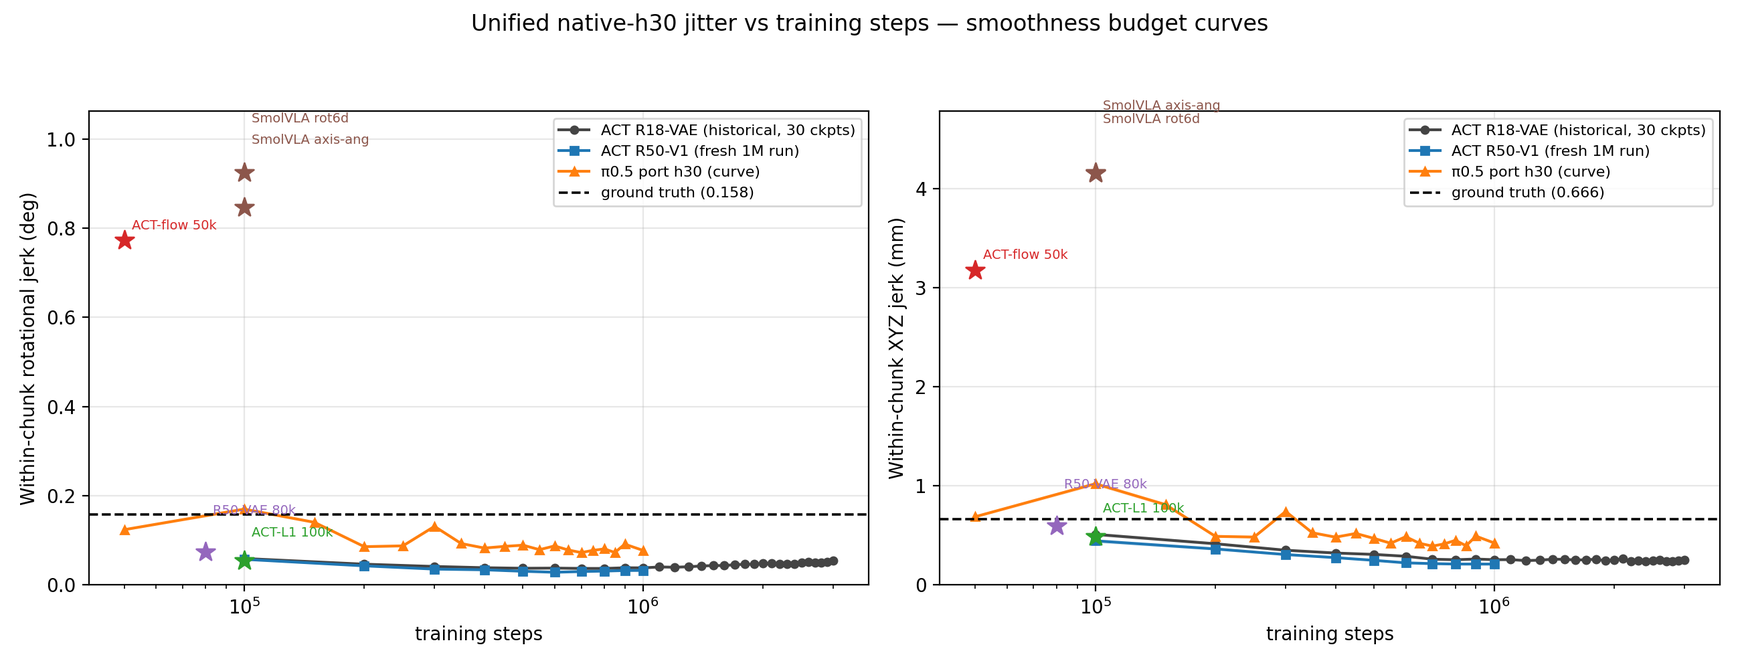
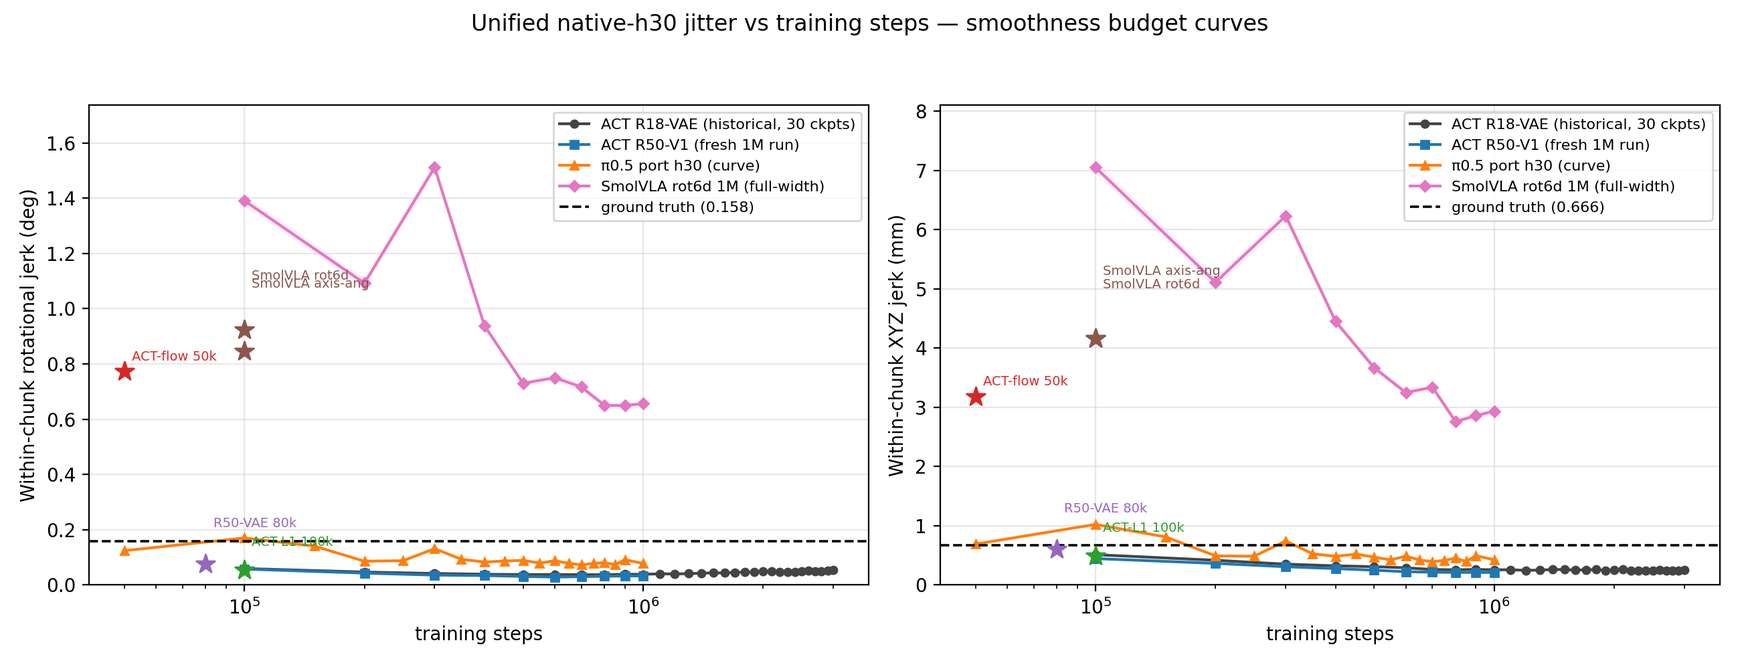
§9.2.10 created: SmolVLA rot6d 1M full-width curve (60/60 evals); §9.2.9 81/81, §9.2.11 77/87
- §9.2.10: padding-mode A/B section — Option A (full-width) complete:
  h10 10.51→9.06 mm (ties port@1M, passes R50-V1), h30 28.50→26.26 mm
  (still worst family — far-horizon deficit survives 10x budget), jerk
  halves (1.04→0.43° h10 / 1.39→0.66° h30); replication check:
  fresh-100k ≠ notation-100k (schedule-position effect, disjoint t+10 CIs);
  budget improves BOTH horizons (no ACT-style flip); Option B (masked) ETA
  Aug 20.
- §9.2.9: 10 new rows + read-out 7 (SmolVLA tops h10 pack only at full
  budget, ~7x port's sample efficiency).
- §9.2.11: 10 new h30 rows + read-out 7 + smol1m curve in figures.
- plot_unified_h10.py: 4th budget curve (regex-gated 7-digit names to
  exclude the notation-100k run); jitter scope fix.

diff --git a/examples/umi_relative_ee/act_flow_ablation/plot_unified_h10.py b/examples/umi_relative_ee/act_flow_ablation/plot_unified_h10.py
@@ -27,6 +27,7 @@ from __future__ import annotations
 
 import csv
 import os
+import re
 
 import matplotlib
 
@@ -47,6 +48,7 @@ COLORS = {
     "port": "#ff7f0e",
     "openpi": "#17becf",
     "smol": "#8c564b",
+    "smol1m": "#e377c2",
 }
 
 # Bar-chart representatives: (run, label, family). One row per surviving
@@ -69,6 +71,7 @@ REPRESENTATIVES = [
     ("pi05_port_seed1000_1000000steps", "π0.5 port 1M (kiwi)", "port"),
     ("pi05_port_seed1000_0700000steps", "π0.5 port 700K (kiwi)", "port"),
     ("smolvla_rot6d_seed1000_100000steps", "SmolVLA rot6d 100k", "smol"),
+    ("smolvla_rot6d_seed1000_1000000steps", "SmolVLA rot6d 1M (full-width)", "smol1m"),
     ("smolvla_axis_angle_seed1000_100000steps", "SmolVLA axis-angle 100k", "smol"),
 ]
 
@@ -174,6 +177,10 @@ def fig_budget(rows: dict[str, dict]) -> None:
         (int(r["step"]), r) for run, r in rows.items()
         if run.startswith("pi05_port_seed1000_")
     )
+    smol1m = sorted(
+        (int(r["step"]), r) for run, r in rows.items()
+        if re.fullmatch(r"smolvla_rot6d_seed1000_\d{7}steps", run)
+    )
     fig, axes = plt.subplots(1, 2, figsize=(13, 5))
     fig.suptitle(
         "Unified horizon-10 budget curves — accuracy@0.1 and XYZ endpoint vs training steps",
@@ -188,6 +195,7 @@ def fig_budget(rows: dict[str, dict]) -> None:
             (hist, COLORS["hist"], "ACT R18-VAE (historical, 30 ckpts)", "o"),
             (r50, COLORS["r50v1"], "ACT R50-V1 (fresh 1M run)", "s"),
             (port, COLORS["port"], "π0.5 port (curve, 19 ckpts)", "^"),
+            (smol1m, COLORS["smol1m"], "SmolVLA rot6d 1M full-width (10 ckpts)", "D"),
         ):
             if not series:
                 continue
@@ -232,7 +240,7 @@ def fig_budget(rows: dict[str, dict]) -> None:
     fig.tight_layout(rect=(0, 0, 1, 0.94))
     out = os.path.join(FIG_DIR, "unified_h10_budget.png")
     fig.savefig(out, dpi=200)
-    print(f"wrote {out} ({len(hist)} hist + {len(r50)} R50-V1 + {len(port)} port points)")
+    print(f"wrote {out} ({len(hist)} hist + {len(r50)} R50-V1 + {len(port)} port + {len(smol1m)} smol-1M points)")
 
 
 def fig_jitter(rows: dict[str, dict]) -> None:
@@ -312,6 +320,10 @@ def fig_jitter_budget(rows: dict[str, dict]) -> None:
         (int(r["step"]), r) for run, r in rows.items()
         if run.startswith("pi05_port_seed1000_")
     )
+    smol1m = sorted(
+        (int(r["step"]), r) for run, r in rows.items()
+        if re.fullmatch(r"smolvla_rot6d_seed1000_\d{7}steps", run)
+    )
     ref = next(iter(rows.values()))
     gt_rot = float(ref["gt_rot_jerk_deg"])
     gt_xyz = float(ref["gt_xyz_jerk_m"]) * 1000
@@ -331,6 +343,7 @@ def fig_jitter_budget(rows: dict[str, dict]) -> None:
             (hist, COLORS["hist"], "ACT R18-VAE (historical, 30 ckpts)", "o"),
             (r50, COLORS["r50v1"], "ACT R50-V1 (fresh 1M run)", "s"),
             (port, COLORS["port"], "π0.5 port (curve, 19 ckpts)", "^"),
+            (smol1m, COLORS["smol1m"], "SmolVLA rot6d 1M full-width (10 ckpts)", "D"),
         ):
             if not series:
                 continue
@@ -376,7 +389,7 @@ def fig_jitter_budget(rows: dict[str, dict]) -> None:
     fig.tight_layout(rect=(0, 0, 1, 0.94))
     out = os.path.join(FIG_DIR, "unified_h10_jitter_budget.png")
     fig.savefig(out, dpi=200)
-    print(f"wrote {out} ({len(hist)} hist + {len(r50)} R50-V1 + {len(port)} port points)")
+    print(f"wrote {out} ({len(hist)} hist + {len(r50)} R50-V1 + {len(port)} port + {len(smol1m)} smol-1M points)")
 
 
 def main() -> int:

diff --git a/examples/umi_relative_ee/act_flow_ablation/RESEARCH_REPORT.md b/examples/umi_relative_ee/act_flow_ablation/RESEARCH_REPORT.md
@@ -1,6 +1,6 @@
 # ACT capacity and flow-objective investigation
 
-**Status:** complete — seed-1000 controlled matrix (§9.1–9.2), π0.5 650K/700K flow-VLM reference (§9.2.2), SmolVLA rotation-notation ablation (§9.2.3), and the official-openpi rot6d-vs-rotvec replication (§9.2.4). §9.2.4 includes a horizon-matched correction: at equal 10-step scoring, SmolVLA / π0.5 port / official openpi are all statistically tied at 9–10 mm endpoint — earlier cross-model endpoint spreads were a horizon artifact; the real differentiators are smoothness and sample efficiency. The multi-seed (seed 2000/3000) confirmation was dropped for compute efficiency after two artifact-disk failures stranded the checkpoints (§8, incident 12); a 2026-08-17 salvage audit later found six seed-2000/3000 companion checkpoints alive at partial budgets and evaluated them (§9.2.6) — variant rank order replicates across training seeds — and then scored the fully-intact historical production ACT across its entire 100k–3M budget range on the same metric set (§9.2.7). Conclusions otherwise rest on a single training seed with per-episode bootstrap intervals, supplemented by the well-trained π0.5 references. A π0.5-port 700K→1M continuation is in flight on kiwi (resumed 2026-08-16, ETA ≈ 64 h; §9.2.2) — its evaluation will extend the §9.2.2 and horizon-10 tables when it lands. The horizon-30 openpi arm plus the JAX-vs-PyTorch matched-recipe stack A/B completed on 2026-08-17 (§9.2.5): scoring horizon alone moves the same openpi checkpoint 2.2× in endpoint error; h30 training costs ~15% near-horizon precision versus h10 training at equal budget; JAX-vs-PyTorch at matched recipe shows no accuracy gap but the PyTorch port is ~2× smoother; and the openpi recipe's ~9× sample efficiency transfers into the PyTorch stack. A fresh ACT R50-V1 1M-step run (seed 1000) completed on the host on 2026-08-18 (§9.2.8): its budget curve confirms the capacity conclusion — R50@100k already matches the historical R18@3M plateau and stays ~2 mm / ~2.7 pp acc@0.1 ahead through 1M, with no late smoothness penalty; notably, budget improves t+30 endpoint but *degrades* t+10 endpoint on the same checkpoints, so checkpoint selection must match the executed horizon. A unified horizon-10 re-evaluation of every surviving model under one protocol with the full metric set (endpoint pose, per-component L1 / per-dim MSE, accuracy@0.5/0.1 as co-primary metrics; §9.2.9) was launched 2026-08-18 — it re-scores, never retrains, and its metric definitions are normative for the report; its host rows landed the same day (at matched t+10, the ACT R50/L1 family, SmolVLA, and the 3B flow-VLMs statistically tie at 9–11 mm endpoint / acc@0.1 0.92–0.93, the historical R18 sits above the pack at 12–13 mm even at 30× budget, and matched ACT-flow remains worst on every metric), with only the kiwi π0.5-port rows pending.
+**Status:** complete — seed-1000 controlled matrix (§9.1–9.2), π0.5 650K/700K flow-VLM reference (§9.2.2), SmolVLA rotation-notation ablation (§9.2.3), and the official-openpi rot6d-vs-rotvec replication (§9.2.4). §9.2.4 includes a horizon-matched correction: at equal 10-step scoring, SmolVLA / π0.5 port / official openpi are all statistically tied at 9–10 mm endpoint — earlier cross-model endpoint spreads were a horizon artifact; the real differentiators are smoothness and sample efficiency. The multi-seed (seed 2000/3000) confirmation was dropped for compute efficiency after two artifact-disk failures stranded the checkpoints (§8, incident 12); a 2026-08-17 salvage audit later found six seed-2000/3000 companion checkpoints alive at partial budgets and evaluated them (§9.2.6) — variant rank order replicates across training seeds — and then scored the fully-intact historical production ACT across its entire 100k–3M budget range on the same metric set (§9.2.7). Conclusions otherwise rest on a single training seed with per-episode bootstrap intervals, supplemented by the well-trained π0.5 references. The π0.5-port 700K→1M continuation completed 2026-08-19 (1M flat at both horizons: 9.00 mm t+10 / 21.75 mm t+30; §9.2.2, §9.2.9, §9.2.11). The horizon-30 openpi arm plus the JAX-vs-PyTorch matched-recipe stack A/B completed on 2026-08-17 (§9.2.5): scoring horizon alone moves the same openpi checkpoint 2.2× in endpoint error; h30 training costs ~15% near-horizon precision versus h10 training at equal budget; JAX-vs-PyTorch at matched recipe shows no accuracy gap but the PyTorch port is ~2× smoother; and the openpi recipe's ~9× sample efficiency transfers into the PyTorch stack. A fresh ACT R50-V1 1M-step run (seed 1000) completed on the host on 2026-08-18 (§9.2.8): its budget curve confirms the capacity conclusion — R50@100k already matches the historical R18@3M plateau and stays ~2 mm / ~2.7 pp acc@0.1 ahead through 1M, with no late smoothness penalty; notably, budget improves t+30 endpoint but *degrades* t+10 endpoint on the same checkpoints, so checkpoint selection must match the executed horizon. A unified horizon-10 re-evaluation of every surviving model under one protocol with the full metric set (endpoint pose, per-component L1 / per-dim MSE, accuracy@0.5/0.1 as co-primary metrics; §9.2.9) was launched 2026-08-18 — it re-scores, never retrains, and its metric definitions are normative for the report; its host rows landed the same day (at matched t+10, the ACT R50/L1 family, SmolVLA, and the 3B flow-VLMs statistically tie at 9–11 mm endpoint / acc@0.1 0.92–0.93, the historical R18 sits above the pack at 12–13 mm even at 30× budget, and matched ACT-flow remains worst on every metric); the kiwi π0.5-port rows and the SmolVLA rot6d 1M full-width curve have since landed (§9.2.10).
 **Started:** 2026-08-11  
 **Branch:** `research/umi-act-flowmatching-ablation-20260811`  
 **Source baseline:** `3feb3f3e`  
@@ -1687,9 +1687,10 @@ families — superseded by their 100k+ checkpoints. Outputs live under
 plus a cross-schema compiler; drivers: `eval_unified_h10_sweep.sh` (host),
 `kiwi_eval_unified_h10.sh` (kiwi, K-phase).
 
-**Status: all 71 rows complete (2026-08-19) — the π0.5-port 1M final landed
+**Status: all 81 rows complete (2026-08-19) — the π0.5-port 1M final landed
 with K1** (9.00 [8.43, 9.58] mm, flat vs 700K — no overfitting through the
-full schedule). The SmolVLA rows were front-run on
+full schedule)**, and the SmolVLA rot6d 1M full-width curve (§9.2.10) joined
+the same day.** The SmolVLA rows were front-run on
 2026-08-18: the two kiwi-trained checkpoints were copied (weights only) to
 the host artifact tree and evaluated on the then-idle host GPU with
 identical flags (`eval_smolvla_unified_h10_host.sh`) rather than waiting
@@ -1793,6 +1794,16 @@ per-dimension (µm² / deg²):
 | pi05_port_seed1000_0900000steps | 900000 | 9.00 [8.43, 9.57] | 1.65 [1.56, 1.75] | 2.22 | 14.0 | 0.437 | 0.47 | 0.991 | 0.930 [0.924, 0.935] | 0.085 |
 | pi05_port_seed1000_1000000steps | 1000000 | 9.00 [8.43, 9.58] | 1.66 [1.57, 1.75] | 2.22 | 13.9 | 0.438 | 0.47 | 0.992 | 0.929 [0.923, 0.935] | 0.074 |
 | smolvla_axis_angle_seed1000_100000steps | 100000 | 9.18 [8.71, 9.66] | 1.68 [1.61, 1.76] | 2.28 | 13.1 | 0.459 | 0.45 | 0.993 | 0.931 [0.927, 0.936] | 0.492 |
+| smolvla_rot6d_seed1000_0100000steps | 100000 | 10.51 [9.95, 11.06] | 1.74 [1.66, 1.81] | 3.13 | 20.1 | 0.531 | 0.54 | 0.992 | 0.919 [0.914, 0.923] | 1.042 |
+| smolvla_rot6d_seed1000_0200000steps | 200000 | 10.30 [9.79, 10.82] | 1.86 [1.78, 1.94] | 3.10 | 18.4 | 0.676 | 0.76 | 0.992 | 0.909 [0.904, 0.913] | 0.870 |
+| smolvla_rot6d_seed1000_0300000steps | 300000 | 9.63 [9.17, 10.09] | 1.84 [1.77, 1.91] | 2.67 | 15.1 | 0.561 | 0.59 | 0.993 | 0.924 [0.920, 0.929] | 1.176 |
+| smolvla_rot6d_seed1000_0400000steps | 400000 | 9.34 [8.86, 9.82] | 1.76 [1.68, 1.84] | 2.46 | 14.2 | 0.522 | 0.53 | 0.993 | 0.929 [0.924, 0.933] | 0.705 |
+| smolvla_rot6d_seed1000_0500000steps | 500000 | 9.37 [8.86, 9.89] | 1.81 [1.74, 1.89] | 2.49 | 14.4 | 0.542 | 0.56 | 0.993 | 0.923 [0.918, 0.928] | 0.522 |
+| smolvla_rot6d_seed1000_0600000steps | 600000 | 9.35 [8.83, 9.88] | 1.76 [1.69, 1.84] | 2.59 | 14.8 | 0.519 | 0.53 | 0.993 | 0.927 [0.922, 0.931] | 0.523 |
+| smolvla_rot6d_seed1000_0700000steps | 700000 | 9.27 [8.78, 9.78] | 1.71 [1.63, 1.79] | 2.36 | 13.8 | 0.497 | 0.49 | 0.993 | 0.931 [0.927, 0.935] | 0.485 |
+| smolvla_rot6d_seed1000_0800000steps | 800000 | 9.28 [8.75, 9.82] | 1.71 [1.63, 1.79] | 2.30 | 13.8 | 0.458 | 0.46 | 0.993 | 0.930 [0.926, 0.935] | 0.432 |
+| smolvla_rot6d_seed1000_0900000steps | 900000 | 9.08 [8.57, 9.59] | 1.69 [1.62, 1.77] | 2.24 | 13.1 | 0.453 | 0.45 | 0.993 | 0.933 [0.928, 0.937] | 0.430 |
+| smolvla_rot6d_seed1000_1000000steps | 1000000 | 9.06 [8.56, 9.56] | 1.68 [1.60, 1.76] | 2.22 | 13.0 | 0.450 | 0.45 | 0.993 | 0.933 [0.929, 0.937] | 0.428 |
 | smolvla_rot6d_seed1000_100000steps | 100000 | 9.08 [8.62, 9.57] | 1.66 [1.59, 1.74] | 2.26 | 12.9 | 0.455 | 0.45 | 0.993 | 0.931 [0.927, 0.935] | 0.552 |
 
 ![Unified horizon-10 metrics across all surviving models](figures/unified_h10_metrics.png)
@@ -1872,6 +1883,103 @@ Host-side read-outs (kiwi rows will extend, not re-rank, these):
    rotvec vs rot6d tie on acc@0.1 (0.920 vs 0.919) and rotvec is even
    better on rotation endpoint (1.65° vs 1.80°, disjoint), while rot6d is
    better on XYZ endpoint — no notation lever in either stack.
+7. **The SmolVLA 1M full-width curve (§9.2.10) reaches the top of the h10
+   pack only at full budget.** At 100k it sits above every mature family
+   (10.51 mm vs port 9.12, R50-V1 9.20); by 1M it ties the port plateau
+   (9.06 [8.56, 9.56] vs 9.00) and passes R50-V1@1M (10.61), with acc@0.1
+   0.933 — the table's best point estimate — and rot-jerk halved to 0.43°.
+   SmolVLA needs ~7× the port's steps to reach the same t+10 operating
+   point (sample-efficiency gap), and unlike the ACT families its t+10
+   endpoint keeps improving through 1M with no overfitting.
+
+### 9.2.10 SmolVLA rot6d at 1M budget — flow-matching padding-mode A/B
+
+User-directed 2026-08-19: "after kiwi gpu free, launch a same 1M smolvla but
+with mask valid training on kiwi. do add into report and evaluate as others
+after finish." The §9.2.3 notation runs established SmolVLA's 100k-budget
+operating point; this section gives the family a full 1M budget curve under
+the identical recipe (fresh seed 1000, checkpoints every 100k, flow-matching
+padding `openpi_full_width` — Option A) and pairs it with a masked-subspace
+arm (Option B, `--policy.flow_matching_padding_mode=masked_subspace`,
+trained on the kiwi RTX 5080 after the π0.5 exit) to test whether the
+strawberry-dataset padding finding (Option A fixes the mixed-formulation
+within-chunk jitter at 1M budget, `OPENPI_FULL_WIDTH_FLOW_MATCHING.md`)
+holds for this task at matched budget. Both arms are evaluated exactly like
+every other model: 10 checkpoints × 3 inference seeds × both protocols
+(unified h10 §9.2.9 + native h30 §9.2.11), canonical 500-query window,
+deterministic-free flow sampling at seeds 1000/2000/3000 averaged within
+episode, 95% episode bootstrap.
+
+**Status: Option A (host full-width) complete 2026-08-19 — training
+20:14:56 @1M, 60/60 evals, 0 failures. Option B (kiwi masked) training,
+ETA ≈ 2026-08-20 13:00 + chained 60-eval pass; the A/B verdict lands then.**
+
+Unified horizon-10 rows (§9.2.9 protocol):
+
+| Run | step | XYZ end (mm) | Rot end (deg) | XYZ L1/dim (mm) | XYZ MSE/dim (µm²) | Rotvec L1/dim (deg) | Rotvec MSE/dim (deg²) | acc@0.5 | acc@0.1 | Rot jerk (deg) |
+| --- | ---: | ---: | ---: | ---: | ---: | ---: | ---: | ---: | ---: | ---: |
+| smolvla_rot6d_seed1000_0100000steps | 100000 | 10.51 [9.95, 11.06] | 1.74 [1.66, 1.81] | 3.13 | 20.1 | 0.531 | 0.54 | 0.992 | 0.919 [0.914, 0.923] | 1.042 |
+| smolvla_rot6d_seed1000_0200000steps | 200000 | 10.30 [9.79, 10.82] | 1.86 [1.78, 1.94] | 3.10 | 18.4 | 0.676 | 0.76 | 0.992 | 0.909 [0.904, 0.913] | 0.870 |
+| smolvla_rot6d_seed1000_0300000steps | 300000 | 9.63 [9.17, 10.09] | 1.84 [1.77, 1.91] | 2.67 | 15.1 | 0.561 | 0.59 | 0.993 | 0.924 [0.920, 0.929] | 1.176 |
+| smolvla_rot6d_seed1000_0400000steps | 400000 | 9.34 [8.86, 9.82] | 1.76 [1.68, 1.84] | 2.46 | 14.2 | 0.522 | 0.53 | 0.993 | 0.929 [0.924, 0.933] | 0.705 |
+| smolvla_rot6d_seed1000_0500000steps | 500000 | 9.37 [8.86, 9.89] | 1.81 [1.74, 1.89] | 2.49 | 14.4 | 0.542 | 0.56 | 0.993 | 0.923 [0.918, 0.928] | 0.522 |
+| smolvla_rot6d_seed1000_0600000steps | 600000 | 9.35 [8.83, 9.88] | 1.76 [1.69, 1.84] | 2.59 | 14.8 | 0.519 | 0.53 | 0.993 | 0.927 [0.922, 0.931] | 0.523 |
+| smolvla_rot6d_seed1000_0700000steps | 700000 | 9.27 [8.78, 9.78] | 1.71 [1.63, 1.79] | 2.36 | 13.8 | 0.497 | 0.49 | 0.993 | 0.931 [0.927, 0.935] | 0.485 |
+| smolvla_rot6d_seed1000_0800000steps | 800000 | 9.28 [8.75, 9.82] | 1.71 [1.63, 1.79] | 2.30 | 13.8 | 0.458 | 0.46 | 0.993 | 0.930 [0.926, 0.935] | 0.432 |
+| smolvla_rot6d_seed1000_0900000steps | 900000 | 9.08 [8.57, 9.59] | 1.69 [1.62, 1.77] | 2.24 | 13.1 | 0.453 | 0.45 | 0.993 | 0.933 [0.928, 0.937] | 0.430 |
+| smolvla_rot6d_seed1000_1000000steps | 1000000 | 9.06 [8.56, 9.56] | 1.68 [1.60, 1.76] | 2.22 | 13.0 | 0.450 | 0.45 | 0.993 | 0.933 [0.929, 0.937] | 0.428 |
+
+Native-h30 milestones (full 10-row table in §9.2.11):
+
+| step | XYZ end h10 (mm) | XYZ end h30 (mm) | acc@0.1 h10 | acc@0.1 h30 | Rot jerk h10 (deg) | Rot jerk h30 (deg) |
+| ---: | ---: | ---: | ---: | ---: | ---: | ---: |
+| 100k (notation run §9.2.3) | 9.08 | 27.29 | 0.931 | 0.714 | 0.552 | 0.924 |
+| 100k | 10.51 | 28.50 | 0.919 | 0.695 | 1.042 | 1.391 |
+| 300k | 9.63 | 27.16 | 0.924 | 0.711 | 1.176 | 1.512 |
+| 500k | 9.37 | 26.85 | 0.923 | 0.714 | 0.522 | 0.730 |
+| 700k | 9.27 | 26.27 | 0.931 | 0.724 | 0.485 | 0.717 |
+| 1M | 9.06 | 26.26 | 0.933 | 0.729 | 0.428 | 0.656 |
+
+Read-outs (Option A; the padding A/B verdict lands with Option B):
+
+1. **Replication check: fresh-100k does NOT match notation-100k at t+10.**
+   10.51 [9.95, 11.06] vs 9.08 [8.62, 9.57] mm — disjoint intervals, ~1.4 mm
+   apart (at t+30 the comparison only overlaps: 28.50 [26.90, 30.12] vs
+   27.29 [25.72, 28.87]). The runs share recipe and seed but differ in
+   *schedule position*: the notation run's LR cosine completed at its 100k
+   final checkpoint, while the 1M run's 100k checkpoint is mid-cosine — the
+   same short-schedule-vs-mid-long-schedule gap that separates the
+   §9.2.6 companions from budget-curve points at equal steps. The §9.2.3
+   notation numbers therefore remain the correct 100k-budget reference, and
+   mid-curve checkpoints must not be read as budget-matched replicates.
+2. **Budget improves BOTH horizons — no ACT-style flip.** t+10 10.51 →
+   9.06 mm (plateau from ~700k) and t+30 28.50 → 26.26 mm (still creeping
+   down at 1M); acc@0.1 0.919 → 0.933 and 0.695 → 0.729. Contrast
+   §9.2.8 read-out 4, where R50-V1's t+10 *degrades* with budget while t+30
+   improves: the horizon trade is a property of the ACT-VAE family, not of
+   training long per se — both flow families here (SmolVLA, π0.5 port)
+   improve monotonically or stay flat at both horizons.
+3. **At 1M SmolVLA ties the top of the h10 pack but stays the worst
+   chunk-30 family.** 9.06 vs port 9.00 mm at t+10 (both ahead of
+   R50-V1@1M 10.61) versus 26.26 vs port 21.75 / R50-V1 21.32 / ACT-L1
+   23.31 mm at t+30: ten-fold budget closes the near-horizon gap entirely
+   and the far-horizon gap only partly (~1.2 of ~4 mm vs ACT-L1). The
+   family's far-horizon deficit is architectural/recipe-level, not a
+   budget artifact.
+4. **Training budget halves SmolVLA's jitter — the "SmolVLA is jittery"
+   reputation is partly a budget artifact.** h10 rot-jerk 1.04 → 0.43°
+   (2.8× GT 0.152°) and h30 1.39 → 0.66° (4.2× GT 0.158°); the 100k
+   notation reference (0.55°/0.92°) sits mid-way. Even at 1M the family
+   remains the least smooth of the survivors and never approaches GT —
+   budget mitigates but does not resolve the flow-expert jitter.
+5. **The tail ratio is port-like** (MSE:L1 ≈ 5.9 µm/mm at 1M t+10 vs the
+   port's ≈6.3): with adequate budget the flow objective's error tail
+   behaves like the port's, not like matched-ACT-flow's (§9.2.9 read-out 4).
+
+The budget figures (`figures/unified_h10_budget.png`,
+`figures/unified_h30_budget.png`, `*_jitter_budget.png`) carry the
+full-width curve; the masked arm joins as the fifth line when its evals
+land.
 
 ### 9.2.11 Unified native-h30 (full-chunk) evaluation of every chunk-30 model
 
@@ -1889,10 +1997,10 @@ companions, and — new — the π0.5-port h30 curve (`pi05_port_<STEP>_h30_v2`
 runs; host front-run 50k–900k minus 650k/700k via
 `eval_pi05_curve_h30_host.sh`, kiwi K2 owns 650K/700K/1M).
 
-**Status: 67 of 87 rows complete (2026-08-19); the full π0.5-port h30
-curve (19 points, 50k–1M) and the SmolVLA notation h30 pair are in.**
-Pending: the SmolVLA 1M full-width h30 curve (chained after tonight's
-training exit) and the kiwi masked-subspace 1M h30 curve. Every
+**Status: 77 of 87 rows complete (2026-08-19); the full π0.5-port h30
+curve (19 points, 50k–1M), the SmolVLA notation h30 pair, and the SmolVLA
+1M full-width h30 curve (10 points, §9.2.10) are in.** Pending: only the
+kiwi masked-subspace 1M h30 curve. Every
 admitted row passed the compiler's assertions — canonical bounds,
 full-chunk scoring, 500 queries/100 episodes, identical acc@τ scales
 (within-tree), and identical GT jerk (0.158° / 0.67 mm — the full-chunk
@@ -1966,14 +2074,24 @@ GT invariants, slightly different from the t+10 values as expected).
 | pi05_port_0900000_h30_v2 | 900000 | 21.76 [20.16, 23.41] | 4.28 [3.95, 4.61] | 6.50 | 116.8 | 1.193 | 3.48 | 0.976 | 0.743 [0.730, 0.756] | 0.091 |
 | pi05_port_1000000_h30_v2 | 1000000 | 21.75 [20.14, 23.42] | 4.29 [3.96, 4.62] | 6.49 | 116.4 | 1.195 | 3.50 | 0.976 | 0.743 [0.730, 0.756] | 0.077 |
 | smolvla_axis_angle_seed1000_100000steps | 100000 | 27.57 [26.10, 29.04] | 4.86 [4.60, 5.13] | 7.45 | 153.9 | 1.324 | 4.15 | 0.974 | 0.715 [0.706, 0.723] | 0.847 |
+| smolvla_rot6d_1m_seed1000_0100000steps | 100000 | 28.50 [26.90, 30.12] | 4.77 [4.55, 5.01] | 8.11 | 172.2 | 1.343 | 4.03 | 0.971 | 0.695 [0.686, 0.703] | 1.391 |
+| smolvla_rot6d_1m_seed1000_0200000steps | 200000 | 28.13 [26.43, 29.88] | 4.58 [4.35, 4.83] | 7.99 | 163.1 | 1.370 | 3.97 | 0.975 | 0.704 [0.695, 0.713] | 1.092 |
+| smolvla_rot6d_1m_seed1000_0300000steps | 300000 | 27.16 [25.51, 28.81] | 4.67 [4.45, 4.90] | 7.55 | 151.5 | 1.349 | 4.00 | 0.975 | 0.711 [0.702, 0.719] | 1.512 |
+| smolvla_rot6d_1m_seed1000_0400000steps | 400000 | 27.06 [25.48, 28.67] | 4.73 [4.48, 4.99] | 7.37 | 147.0 | 1.340 | 4.06 | 0.976 | 0.711 [0.702, 0.721] | 0.938 |
+| smolvla_rot6d_1m_seed1000_0500000steps | 500000 | 26.85 [25.14, 28.63] | 4.58 [4.33, 4.83] | 7.36 | 149.9 | 1.329 | 3.88 | 0.975 | 0.714 [0.704, 0.724] | 0.730 |
+| smolvla_rot6d_1m_seed1000_0600000steps | 600000 | 26.41 [24.65, 28.22] | 4.46 [4.22, 4.70] | 7.31 | 148.4 | 1.290 | 3.74 | 0.976 | 0.724 [0.714, 0.734] | 0.750 |
+| smolvla_rot6d_1m_seed1000_0700000steps | 700000 | 26.27 [24.59, 27.96] | 4.40 [4.16, 4.65] | 7.25 | 147.0 | 1.265 | 3.64 | 0.975 | 0.724 [0.715, 0.734] | 0.717 |
+| smolvla_rot6d_1m_seed1000_0800000steps | 800000 | 26.84 [25.05, 28.67] | 4.47 [4.23, 4.72] | 7.32 | 154.1 | 1.271 | 3.73 | 0.975 | 0.723 [0.714, 0.733] | 0.650 |
+| smolvla_rot6d_1m_seed1000_0900000steps | 900000 | 26.43 [24.71, 28.18] | 4.42 [4.18, 4.67] | 7.18 | 148.5 | 1.251 | 3.62 | 0.976 | 0.728 [0.718, 0.737] | 0.649 |
+| smolvla_rot6d_1m_seed1000_1000000steps | 1000000 | 26.26 [24.54, 28.02] | 4.41 [4.17, 4.66] | 7.15 | 146.7 | 1.247 | 3.62 | 0.976 | 0.729 [0.719, 0.738] | 0.656 |
 | smolvla_rot6d_seed1000_100000steps | 100000 | 27.29 [25.72, 28.87] | 4.68 [4.45, 4.92] | 7.35 | 150.6 | 1.296 | 3.95 | 0.974 | 0.714 [0.705, 0.723] | 0.924 |
 
 ![Unified native-h30 metrics across chunk-30 models](figures/unified_h30_metrics.png)
 
 ![Unified native-h30 budget curves — historical R18-VAE (30 ckpts),
-fresh R50-V1 (10 ckpts), and the π0.5-port h30 curve (19 points, plateau
-≈21.7–21.9 mm from 350k through 1M); SmolVLA 1M curves land as their
-chains finish](figures/unified_h30_budget.png)
+fresh R50-V1 (10 ckpts), the π0.5-port h30 curve (19 points, plateau
+≈21.7–21.9 mm from 350k through 1M), and the SmolVLA 1M full-width curve
+(10 points, 28.5 → 26.3 mm); the masked curve lands last](figures/unified_h30_budget.png)
 
 ![Unified native-h30 jitter — every run of the sweep, log scale, dashed =
 ground truth (0.158° / 0.67 mm)](figures/unified_h30_jitter.png)
@@ -2002,8 +2120,10 @@ Read-outs (extended as the pending rows land):
    the ACT/VAE families); the VAE/L1 ACT families improve from ~0.06° at
    their early checkpoints to 0.03–0.05°, all well under the 0.158° GT.
    The π0.5-port h30 curve lands at 0.073–0.091° — between the ACT families
-   and GT, mirroring its h10 position; the SmolVLA curves land with their
-   sweeps.
+   and GT, mirroring its h10 position. The SmolVLA 1M full-width curve
+   (§9.2.10) halves with budget (1.39 → 0.66°) but stays 4× GT — the least
+   smooth family at every checkpoint; the masked curve lands with its
+   sweep.
 4. **MSE:L1 tail ratio separates the objective families at t+30 too**
    (ACT-flow ≈ 24–27 µm/mm vs ≈19–20 for the VAE/L1 families) — the
    heavy-tail penalty of the unweighted flow objective grows with horizon,
@@ -2030,6 +2150,13 @@ Read-outs (extended as the pending rows land):
    the same 100k budget) and by far the least smooth at t+30 (rot-jerk
    0.85–0.92° vs GT 0.158°) — its §9.2.9 h10 "ties everything" profile is
    a near-horizon artifact of the same kind as the port's early edge.
+7. **Budget moves the SmolVLA far-horizon deficit but does not close it.**
+   The full-width 1M curve improves 28.50 → 26.26 mm / acc@0.1
+   0.695 → 0.729 over 100k→1M — yet at every budget it remains above every
+   other chunk-30 family's *same-budget* point, and its 1M endpoint still
+   trails ACT-L1's 100k budget (23.31 mm). Read with §9.2.10 read-out 3:
+   near-horizon parity at full budget, far-horizon deficit that survives
+   10× budget — the only family for which this is true.
 
 ### 9.3 Answers and promotion decision after stage one
 
@@ -2862,8 +2989,8 @@ MPLCONFIGDIR=/tmp/lerobot-matplotlib uv run --with matplotlib python \
 
 outputs `results/unified_h10_run_summary.csv` (per-run means + 95% CIs, all
 co-primary metrics) and `figures/unified_h10_{metrics,budget,jitter,jitter_budget}.png`; the K-phase
-(kiwi π0.5-port rows incl. the 1M final) landed 2026-08-19 — rerun both only
-after the SmolVLA 1M eval chains (§9.2.10).
+and the SmolVLA full-width chain landed 2026-08-19 (81 runs incl. the §9.2.10
+curve) — rerun both only after the masked chain completes §9.2.10.
 
 The native-h30 full-chunk evaluation (§9.2.11) shares the mechanics with the
 horizon inverted (no `--eval_horizon` → full 30-step scoring over the same
@@ -2884,8 +3011,8 @@ MPLCONFIGDIR=/tmp/lerobot-matplotlib uv run --with matplotlib python \
 
 outputs `results/unified_h30_run_summary.csv` and
 `figures/unified_h30_{metrics,budget,jitter,jitter_budget}.png`; the port
-curve and K2/K3 rows landed 2026-08-19 — rerun both only as the SmolVLA 1M
-curves (full-width + masked) land.
+curve, K2/K3 rows, and the SmolVLA full-width curve landed 2026-08-19 (77
+runs) — rerun both only after the masked curve lands.
 
 The v2 pass records the authoritative evaluated checkpoint step from each
 report filename (early-stopped companions sit in `100000steps` directories
